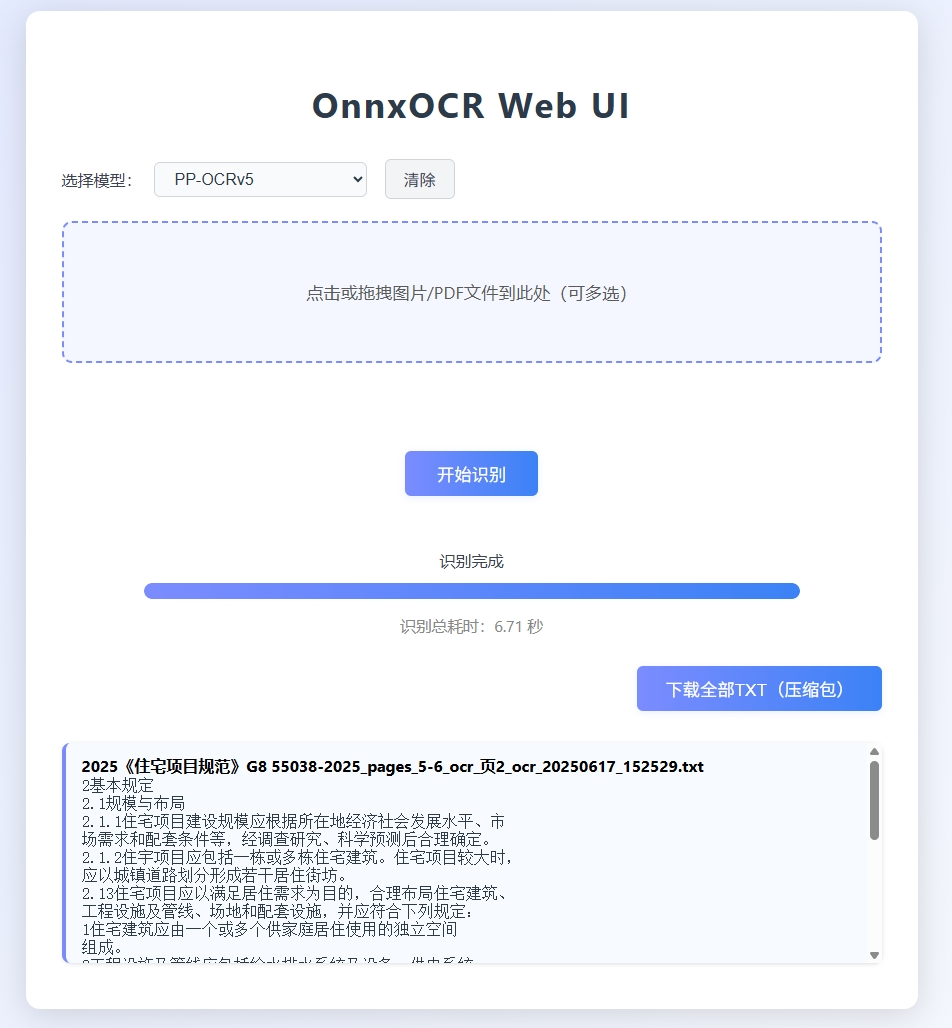
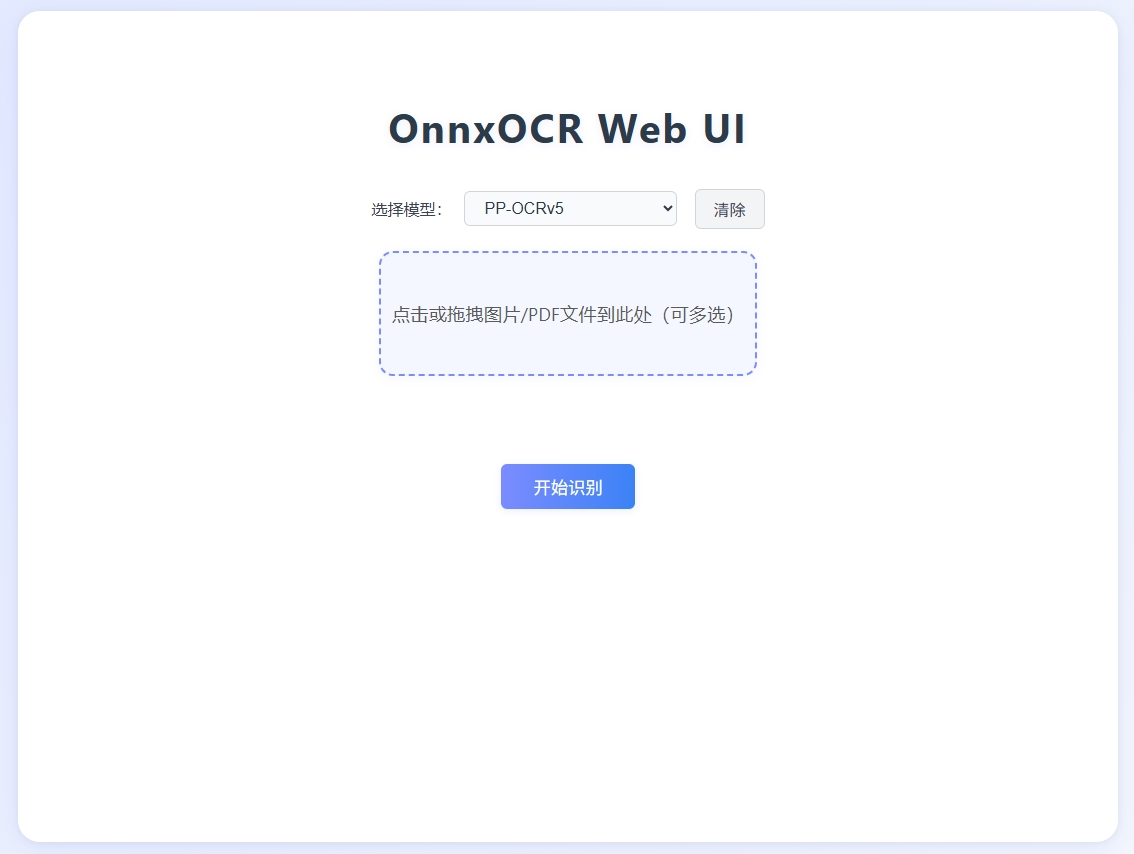
对OnnxOCR官方提交一个PR:添加一个批处理OCR页面。

diff --git a/docs/ChangeLogs.md b/docs/ChangeLogs.md
@@ -4,6 +4,7 @@
 - 使用AI对文本进行优化处理。
 - 代码为ui.py，使用的tkinter、customtkinter，设计了自定义标题栏，目前具有的问题“项目启动后，Windows任务栏没有项目图标，最小化之后，可以看到。”
 
+
 ## v0.2.1(2025=06-18)
 - webui识别后的文本新增复制按钮
 - webui.py新增ocr_api接口(FastAPI)
@@ -12,7 +13,10 @@
 - 点击“开始识别”后，下方会出现进度条和进度说明，模拟识别进度。进度条下方实时显示“正在识别文件...”等提示。识别完成后，显示“识别总耗时：X.XX 秒”。识别内容依然在图片右侧展示。
 - 点击“清除”按钮时，进度条会被清零并隐藏，所有相关内容（进度、耗时、图片、识别结果）都会一并清空。
 - 优化调整webui的UI，适配移动端显示
-
+- **支持GPU，需英伟达显卡**，[电脑安装好Cuda和cuDNN](https://mp.weixin.qq.com/s/wz8vLxQWnj0XrQnEJZ96Ew)。
+- OnnxOCR-UI.7z为绿色版， 解压既可以使用。
+- OnnxOCR-UI_v0.2.1_x64-setup.exe是安装包。
+- 
 ## v0.2.0  (2025-06-14)
 
 - 优化OCR速度,增加多线程处理图片和PDF文件。

diff --git a/README.md b/README.md
@@ -3,7 +3,9 @@
 ## 📖 OnnxOCR-UI 简介
 OnnxOCR-UI 是基于 [OnnxOCR](https://github.com/jingsongliujing/OnnxOCR) 的高级批量图片/PDF OCR 识别工具，采用 Tkinter + customTkinter 打造，专为高效、易用和美观的桌面批量文字识别场景设计。
 
-![OnnxOCR-UI](./docs/images/UI-20250614211544.jpg)
+![OnnxOCR-UI](./docs/images/OnnxOCR-UI.jpg)
+
+介绍文章：[基于OnnxOCR实现的批量PDF、图片OCR识别工具](https://mp.weixin.qq.com/s/vy1-I9IgwI0Q88n20P9ebw)
 
 ## ✨ 主要功能
 - 支持批量图片、PDF 文件拖拽或选择添加

diff --git a/docs/对官方OnnxOCR的PR支持.md b/docs/对官方OnnxOCR的PR支持.md
@@ -1,0 +1,7 @@
+
+
+20250619:
+添加一个批处理OCR页面。
+1、新增webui.py、webui.html、ocr_images_pdfs.py3个文件，使用Flask实现简单批量OCR处理一个或多个图片或PDF文件。
+2、建议使用Python 3.8以上版本，处理速度提升很多，使用cp312时，发现需要对onnxruntime-gpu取消版本限制、numpy<2.0.0做出版本限制。
+3、支持多线程OCR图片。
